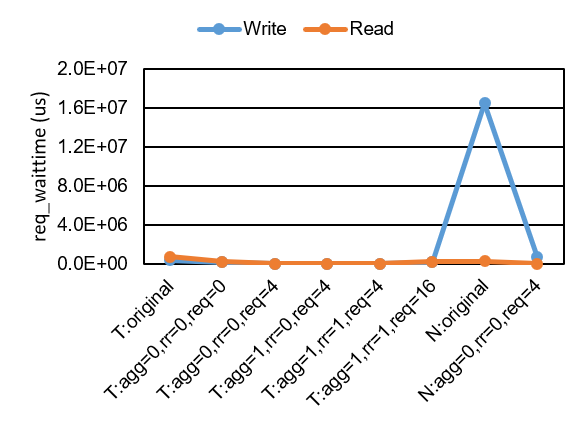
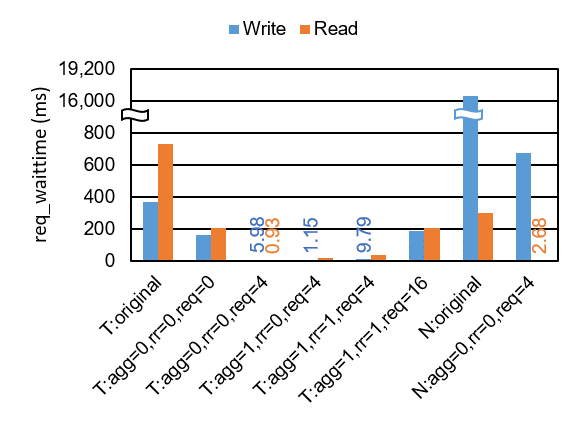
Some updates and modifications in scoring scheme. Some figures have been updated too.

Changed region(s): [[0.031, 0.1232, 0.9604, 0.955], [0.3408, 0.0308, 0.6816, 0.0924]]

diff --git a/main.tex b/main.tex
@@ -93,7 +93,7 @@ to cope with the huge demand of data-intensive applications.
 Although most of the HPC systems provide performance tuning tools on compute nodes,
 there is not enough chance to tune I/O activities on parallel file systems,
 including high speed interconnects among compute nodes and file systems.
-We propose an I/O performance optimization framework that uses log data of
+We propose an I/O performance optimization framework that utilizes log data of
 parallel file systems and interconnects in a holistic way
 for improving performance of HPC systems including I/O nodes and parallel file systems.
 We demonstrate our framework at the K computer with two I/O benchmarks
@@ -235,12 +235,12 @@ and Object Storage Servers (OSSes) and analysis functions,
 including some visualization interface. These works are similar to our work regarding
 holistic approach in characterization of I/O activities.
 
-In contrast, our work addresses analysis of I/O activities through holistic
-log data analysis of Tofu interconnects and parallel file systems including
-associated I/O nodes.
-The uniqueness of this work is a holistic analysis framework using data transfer status
-on interconnects among I/O nodes and associated I/O activity traces
-at parallel file systems.
+In contrast, our work addresses holistic I/O activity analysis
+through log data analysis of Tofu interconnects and parallel file systems
+including associated I/O nodes.
+The uniqueness of this framework is a holistic analysis approach
+using data transfer status on the Tofu interconnects among I/O nodes
+and associated I/O activity traces at parallel file systems.
 
 \section{K computer and Its File System Monitoring}\label{sec:K_OVERVIEW}
 \label{sec:K_COMP}
@@ -388,7 +388,7 @@ the Tofu~PA information in each ten minute interval:
 It is noted that the cycle counts in the Tofu stats correspond to congestion status
 since unavailability of transfer buffers in packet processing closely corresponds to
 packet transfer congestion.
-We enforced to retrieve those metrics from a TNR at every I/O node
+We conducted to retrieve those metrics from a TNR at every I/O node
 during the K computer operation for about a few months
 until the end of the K computer operation.
 
@@ -472,8 +472,9 @@ from a large amount of log data collected by {\itshape fluentd}.
 Once the framework collects all essential information, its log analysis function
 figures out and gives the following information for the given JOB-ID:
 \begin{itemize}
-\item Maximum waiting time of each interconnect at each used I/O node
+\item Maximum waiting time of each interconnect at each used I/O node ($T_{wait}^{max}$)
 \item Bandwidth utilization ratio of the interconnects relative to the theoretical bandwidth
+($R_{BW}$)
 \item I/O performance in both write and read operations on each used OST
 \end{itemize}
 %
@@ -826,18 +827,24 @@ configurations by using (a) IOR and (b) HPIO}
 %
 
 The original MPI-IO operations with and without two-phase I/O represented by
-"{\tt T:original}" and "{\tt N:original}" show low performance in both read and write
-operations in the IOR runs and the same situation is observed
-for the "{\tt T:original}" case in the HPIO runs.
+"{\tt T:original}" and "{\tt N:original}" show poor performance in both read and write
+operations in the IOR runs.
+The same situation is observed for the "{\tt T:original}" case in the HPIO runs.
 EARTH with full optimization in aggregator layout and I/O request throttling
 and stepwise data aggregation outperformed other cases by setting four requests per step
 ({\tt T:agg=1,rr=1,req=4}) in the IOR runs and eight requests per step
 ({\tt T:agg=1,rr=1,req=8}) in the HPIO runs.
 However, performance was degraded by changing the number of requests per step
 or deactivating aggregator layout optimization.
+In addition, the EARTH case using only I/O throttling without two-phase I/O
+({\tt N:agg=0,rr=0,req=4}) could not improve I/O performance
+compared to the original case ({\tt N:original}) in the IOR runs.
+
 Although we have learned optimization effects through such empirical benchmark runs,
 it has not been clear about the performance impact of the optimization configuration
-on I/O nodes and the LFS.
+on I/O nodes, Tofu links among I/O nodes, and the LFS.
+We report such examinations using the proposed framework in the following
+subsections.
 
 \subsection{Analysis of OSS stats}
 
@@ -847,23 +854,27 @@ during I/O operations at the IOR benchmark run.
 %
 \begin{figure}[htb]
 \centering
-\begin{minipage}[t]{0.88\textwidth}
+\begin{minipage}[t]{0.46\textwidth}
  \centering
- \includegraphics[width=1.0\textwidth]{IOR-ost_io_stats-qdepth-ext-dual.png}
- \subcaption{{\tt req\_qdepth} (Left: Overall, Right: Zoomed less than or equal to 600 entries)}
+ %%\includegraphics[width=1.0\textwidth]{IOR-ost_io_stats-qdepth-ext-dual.png}
+ %%\subcaption{{\tt req\_qdepth} (Left: Overall, Right: Zoomed less than or equal to 600 entries)}
+ \includegraphics[width=0.96\textwidth]{IOR-ost_io_stats-qdepth-ext.png}
+ \subcaption{{\tt req\_qdepth}: The vertical axis is expanded from 600 to 3,500}
  \label{fig:IOR_req_qdepth}
 \end{minipage}
 %
-\noindent
-\begin{minipage}[t]{0.88\textwidth}
+%\noindent
+\begin{minipage}[t]{0.46\textwidth}
  \centering
- \includegraphics[width=1.0\textwidth]{IOR-ost_io_stats-waittime-ext-dual.png}
- \subcaption{{\tt req\_waittime} (Left: Overall, Right: Zoomed less than or equal to 800\,ms)}
+ %%\includegraphics[width=1.0\textwidth]{IOR-ost_io_stats-waittime-ext-dual.png}
+ %%\subcaption{{\tt req\_waittime} (Left: Overall, Right: Zoomed less than or equal to 800\,ms)}
+ \includegraphics[width=0.96\textwidth]{IOR-ost_io_stats-waittime-ext.png}
+ \subcaption{{\tt req\_waittime}: The vertical axis is expanded from 800\,ms to 16\,s}
  \label{fig:IOR_req_waittime}
 \end{minipage}
 %
 \noindent
-\begin{minipage}[t]{0.4\textwidth}
+\begin{minipage}[t]{0.44\textwidth}
  \centering
  \includegraphics[width=1.0\textwidth]{IOR-ost_io_stats-active-ext.png}
  \subcaption{{\tt req\_active}}
@@ -871,20 +882,25 @@ during I/O operations at the IOR benchmark run.
 \end{minipage}
 %
 \caption{Mean stats values obtained from OSSes using our analysis framework
-during the IOR benchmark run}
+during the IOR benchmark run, where numbers represent very small values}
 \label{fig:IOR_OST_IO_STATS}
 \end{figure}
 %
-The original case had the largest number of requests in a request queue
-as shown in Fig.~\ref{fig:IOR_req_qdepth}.
-Fig.~\ref{fig:IOR_req_waittime}
-tells that this case also took the longest time to proceed requests.
+As shown in Fig.~\ref{fig:IOR_req_qdepth}, the two original cases
+with or without two-phase I/O, {\tt T:original} and {\tt N:original}
+had the largest number of requests in a request queue
+in each I/O operations with or without two-phase I/O.
+Fig.~\ref{fig:IOR_req_waittime} tells that those cases also took
+the longest time to proceed requests
+in each I/O operations with or without two-phase I/O.
 Besides, Fig.~\ref{fig:IOR_req_active} shows
-the highest number of I/O threads in the original case.
+the highest number of I/O threads in the original case
+with two-phase I/O.
 Note that the maximum number of threads at each OSS of the LFS was 32
 at the K computer.
-Through the observed results, it has turned out that the original case was not
-suited for I/O request processing at OSSes.
+Through the observed results, it has turned out that the two original cases,
+{\tt T:original} and {\tt N:original}, were not suited for
+I/O request processing at OSSes.
 
 While the EARTH use case with good I/O performance ({\tt T:agg=1,rr=1,req=4})
 showed quite a small number of requests in the queue as shown in
@@ -923,7 +939,7 @@ in the HPIO benchmark run.
 \end{minipage}
 %
 \caption{Mean stats values obtained from OSSes using our analysis framework
-during the HPIO benchmark run}
+during the HPIO benchmark run, where numbers represent very small values}
 \label{fig:HPIO_OST_IO_STATS}
 \end{figure}
 %
@@ -937,12 +953,12 @@ Figure~\ref{fig:IOR_ION_TOFU_BWU_WAIT_TIME} shows mean values of
 (a) the peak bandwidth utilization ratios and
 (b) the maximum waiting times in data transfers on links of used I/O nodes.
 %
-\begin{figure}[htb]
+\begin{figure}[tb]
 \centering
 \begin{minipage}[t]{0.48\textwidth}
  \centering
  \includegraphics[width=1.0\textwidth]{IOR-bwu-IO-nodes-ext.png}
- \subcaption{Bandwidth utilization}
+ \subcaption{$R_{BW}$}
  \label{fig:IOR_ION_TOFU_BW_UTIL}
 \end{minipage}
 %
@@ -950,12 +966,12 @@ Figure~\ref{fig:IOR_ION_TOFU_BWU_WAIT_TIME} shows mean values of
 \begin{minipage}[t]{0.48\textwidth}
  \centering
  \includegraphics[width=1.0\textwidth]{IOR-zero_credit_sec-IO-nodes-ext.png}
- \subcaption{Waiting time in data transfer}
+ \subcaption{$T_{wait}^{max}$}
  \label{fig:IOR_ION_TOFU_WAIT_TIME}
 \end{minipage}
 \caption{
-Mean values for data transfers on the Tofu interconnects among used I/O nodes
-during the IOR benchmark run}
+Mean values for (a) $R_{BW}$ and (b) $T_{wait}^{max}$ on the Tofu interconnects
+among used I/O nodes during the IOR benchmark run}
 \label{fig:IOR_ION_TOFU_BWU_WAIT_TIME}
 \end{figure}
 %
@@ -965,6 +981,9 @@ Fig.~\ref{fig:IOR_ION_TOFU_BW_UTIL},
 the original MPI-IO case shows the lowest utilization, while the full set of EARTH 
 optimizations such as “{\tt T:agg=1,rr=1,req=4}” lead to higher bandwidth utilization
 relative to other cases.
+While the cases without two-phase I/O,
+"{\tt N:original}" and "{\tt N:agg=0,rr=0,req=4}", show
+larger number of requests in queue, especially in write operations.
 By considering effectiveness in data transfers among I/O nodes via Tofu interconnects,
 a higher utilization is preferable.
 In this context, the above optimized case was suitable for I/O optimization.
@@ -983,12 +1002,12 @@ In a similar way, Fig.~\ref{fig:HPIO_ION_TOFU_BWU_WAIT_TIME} shows
 bandwidth utilization ratios and waiting times in data transfers
 on Tofu links of used I/O nodes at the HPIO benchmark run.
 %
-\begin{figure}[htb]
+\begin{figure}[tb]
 \centering
 \begin{minipage}[t]{0.48\textwidth}
  \centering
  \includegraphics[width=0.98\textwidth]{hpio-bwu-IO-nodes-ext.png}
- \subcaption{Bandwidth utilization}
+ \subcaption{$R_{BW}$}
  \label{fig:HPIO_ION_TOFU_BW_UTIL}
 \end{minipage}
 %
@@ -996,12 +1015,11 @@ on Tofu links of used I/O nodes at the HPIO benchmark run.
 \begin{minipage}[t]{0.48\textwidth}
  \centering
  \includegraphics[width=0.98\textwidth]{hpio-zero_credit_sec-IO-nodes-ext.png}
- \subcaption{Waiting time in data transfer}
+ \subcaption{$T_{wait}^{max}$}
  \label{fig:HPIO_ION_TOFU_WAIT_TIME}
 \end{minipage}
-\caption{
-Mean values for data transfers on the Tofu interconnects among used I/O nodes
-during the HPIO benchmark run}
+\caption{Mean values for (a) $R_{BW}$ and (b) $T_{wait}^{max}$ on the Tofu interconnects
+among used I/O nodes during the HPIO benchmark run}
 \label{fig:HPIO_ION_TOFU_BWU_WAIT_TIME}
 \end{figure}
 %
@@ -1017,7 +1035,7 @@ Fig.~\ref{fig:HPIO_ION_TOFU_WAIT_TIME}.
 Figure~\ref{fig:IOR_OST_BW_HMAP_WR} shows write bandwidth heat-maps
 among the 192 OSTs during the IOR benchmark runs.
 %
-\begin{figure}[htb]
+\begin{figure}[tb]
 %% \centering
 \begin{minipage}[t]{0.06\textwidth}
  \includegraphics[width=0.98\textwidth,height=0.14\textheight]{hmap-colorbar-mod2.png}
@@ -1047,6 +1065,20 @@ among the 192 OSTs during the IOR benchmark runs.
  \label{fig:IOR_OST_WR_AGG1_RR1_REQ4}
 \end{minipage}
 %
+\begin{minipage}[t]{0.3\textwidth}
+ \centering
+ \includegraphics[width=0.98\textwidth]{IOR-OST_bw_hmap-Non_TP-orig-write-mod.png}
+ \subcaption{{\tt N:original}}
+ \label{fig:IOR_OST_WR_NTP_ORIG}
+\end{minipage}
+%
+\begin{minipage}[t]{0.3\textwidth}
+ \centering
+ \includegraphics[width=0.98\textwidth]{IOR-OST_bw_hmap-Non_TP-earth-agg0-rr0-req4-write-mod.png}
+ \subcaption{{\tt N:agg=0,rr=0,req=4}}
+ \label{fig:IOR_OST_WR_NTP_AGG0_RR0_REQ4}
+\end{minipage}
+%
 \caption{Write bandwidth heat-maps for 192 OSTs during the IOR benchmark run}
 \label{fig:IOR_OST_BW_HMAP_WR}
 \end{figure}
@@ -1070,10 +1102,20 @@ shows a well-balanced situation in write throughput among OSTs.
 In the context of parallel I/O characteristics, this case was suitable
 to achieve I/O performance for the benchmark run.
 
+On the other hand, collective write operations 
+in the original and the EARTH cases without two-phase I/O
+shown in Figs.~\ref{fig:IOR_OST_WR_NTP_ORIG} and
+\ref{fig:IOR_OST_WR_NTP_AGG0_RR0_REQ4} showed
+poor I/O throughput.
+These poor performance was due to contention on I/O task assignment
+to I/O threads by concurrent I/O accesses of all 12,288 processes
+as we have seen in Figs.~\ref{fig:IOR_req_qdepth}
+and \ref{fig:IOR_req_waittime}.
+
 Figure~\ref{fig:IOR_OST_BW_HMAP_RD} shows read bandwidth heat-maps
 among the 192 OSTs at the IOR benchmark runs.
 %
-\begin{figure}[htb]
+\begin{figure}[tb]
 \begin{minipage}[t]{0.06\textwidth}
  \includegraphics[width=0.98\textwidth,height=0.14\textheight]{hmap-colorbar-mod2.png}
 \end{minipage}
@@ -1100,6 +1142,20 @@ among the 192 OSTs at the IOR benchmark runs.
  \includegraphics[width=0.98\textwidth]{IOR-OST_bw_hmap-TP-earth-agg1-rr1-req4-read-mod.png}
  \subcaption{{\tt T:agg=1,rr=1,req=4}}
  \label{fig:IOR_OST_RD_AGG1_RR1_REQ4}
+\end{minipage}
+%
+\begin{minipage}[t]{0.3\textwidth}
+ \centering
+ \includegraphics[width=0.98\textwidth]{IOR-OST_bw_hmap-Non_TP-orig-read-mod.png}
+ \subcaption{{\tt N:original}}
+ \label{fig:IOR_OST_RD_NTP_ORIG}
+\end{minipage}
+%
+\begin{minipage}[t]{0.3\textwidth}
+ \centering
+ \includegraphics[width=0.98\textwidth]{IOR-OST_bw_hmap-Non_TP-earth-agg0-rr0-req4-read-mod.png}
+ \subcaption{{\tt N:agg=0,rr=0,req=4}}
+ \label{fig:IOR_OST_RD_NTP_AGG0_RR0_REQ4}
 \end{minipage}
 %
 \caption{Read bandwidth heat-maps for 192 OSTs during the IOR benchmark run}
@@ -1191,6 +1247,84 @@ However, the insufficient configuration case has performed the longest waiting t
 in the Tofu interconnects among the used I/O nodes as shown in
 Fig.~\ref{fig:HPIO_ION_TOFU_WAIT_TIME}
 and thus high I/O bandwidth could not be achieved in this configuration.
+
+\subsection{Overall evaluation}
+\label{ssec:overall_eval}
+
+We have conducted the overall evaluation based on the evaluated results
+in each target metric.
+From the results in write and read operations in each benchmark run,
+we have obtained mean values of the following metrics;
+%
+\begin{itemize}
+\item Three metrics of {\tt I/O stats}: ({\tt req\_qdepth}, {\tt req\_waittime}, and {\tt req\_active})
+\item Two metrics of {\tt Tofu stats}: ($R_{BW}$ and $T_{wait}^{max}$)
+\item Mean OST bandwidth obtained from write and read OST throughput values
+measured in {\tt I/O rates} 
+\end{itemize}
+%
+We gave them ranks from 1 in the order from the best one
+among the evaluated optimizations.
+Finally we have obtained a stats score as a mean value of the ranks.
+
+Table~\ref{tbl:IOR_OVERALL_EVAL} summarizes the scores of the IOR benchmark run.
+%
+\begin{table}[tb]
+\caption{Scores of the IOR benchmark run, where lesser is better in each score number}
+\centering
+\begin{tabular}{lccccccc}
+\hline
+\multicolumn{1}{c}{Optimization}  & \multicolumn{3}{c}{I/O stats} & \multicolumn{2}{c}{Tofu stats} & Mean OST & Overall \\
+\multicolumn{1}{c}{configuration} & {\tt req\_qdepth} & {\tt req\_waittime} & {\tt req\_active} &  $R_{BW}$ & $T_{wait}^{max}$ & bandwidth & score \\
+\hline
+T:original          & 7 & 7 & 1 & 7 & 2 & 5 & 4.83 \\
+T:agg=0,rr=0,req=0  & 5 & 4 & 4 & 6 & 7 & 1 & 4.50 \\
+T:agg=0,rr=0,req=4  & 1 & 1 & 8 & 4 & 8 & 7 & 4.83 \\
+T:agg=1,rr=0,req=4  & 2 & 2 & 5 & 2 & 5 & 6 & 3.67 \\
+T:agg=1,rr=1,req=4  & 3 & 3 & 3 & 1 & 6 & 4 & 3.33 \\
+T:agg=1,rr=1,req=16 & 6 & 5 & 2 & 3 & 4 & 2 & 3.67 \\
+N:original          & 8 & 8 & 6 & 8 & 1 & 8 & 6.50 \\
+N:agg=0,rr=0,req=4  & 4 & 6 & 7 & 5 & 3 & 3 & 4.67 \\
+\hline
+\end{tabular}
+\label{tbl:IOR_OVERALL_EVAL}
+\end{table}
+%
+We can see that the case of {\tt T:agg=1,rr=1,req=4} shows the best overall score
+of 3.33 among the evaluated optimization parameter sets.
+Although we have already examined that this case was the best in the IOR run,
+we have observed that the base case has achieved such balanced situation
+among I/O subsystems from the score.
+%% The best score was achieved because of the balanced scores
+%% in the evaluated six metrics.
+
+While the scores of the HPIO benchmark run are summarized in
+Table~\ref{tbl:HPIO_OVERALL_EVAL}.
+%
+\begin{table}[tb]
+\caption{Scores of the HPIO benchmark run, where lesser is better in each score number}
+\centering
+\begin{tabular}{lccccccc}
+\hline
+\multicolumn{1}{c}{Optimization}  & \multicolumn{3}{c}{I/O stats} & \multicolumn{2}{c}{Tofu stats} & Mean OST & Overall \\
+\multicolumn{1}{c}{configuration} & {\tt req\_qdepth} & {\tt req\_waittime} & {\tt req\_active} &  $R_{BW}$ & $T_{wait}^{max}$ & bandwidth & score \\
+\hline
+T:original         & 5 & 6 & 2 & 5 & 1 & 5 & 4.00 \\
+T:agg=0,rr=0,req=0 & 4 & 5 & 4 & 4 & 2 & 6 & 4.17 \\
+T:agg=0,rr=0,req=8 & 1 & 1 & 6 & 2 & 6 & 1 & 2.83 \\
+T:agg=1,rr=1,req=8 & 3 & 4 & 1 & 1 & 4 & 3 & 2.67 \\
+T:agg=1,rr=1,req=2 & 2 & 2 & 5 & 3 & 3 & 4 & 3.17 \\
+T:agg=1,rr=1,req=4 & 6 & 3 & 3 & 6 & 5 & 2 & 4.17 \\
+\hline
+\end{tabular}
+\label{tbl:HPIO_OVERALL_EVAL}
+\end{table}
+%
+From this table, we can see that the case of {\tt T:agg=1,rr=1,req=8}
+has achieved the best score of 2.67 among the evaluated optimiation parameter set.
+The best case shows balanced situation among the I/O subsystems
+as well as the IOR benchmark run.
+We can easily understand the balanced situation using the scoring scheme.
 
 \section{Conclusions}
 \label{sec:CONCLUSIONS}
